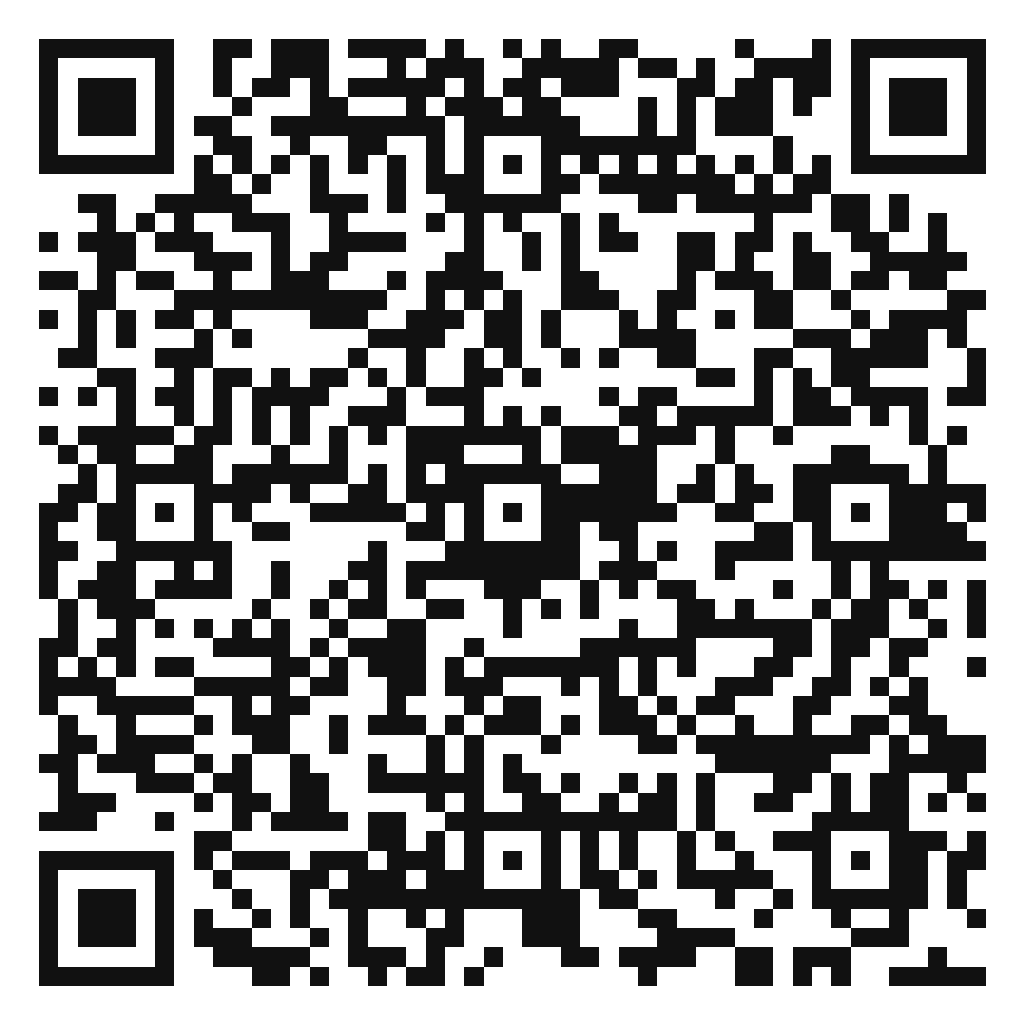
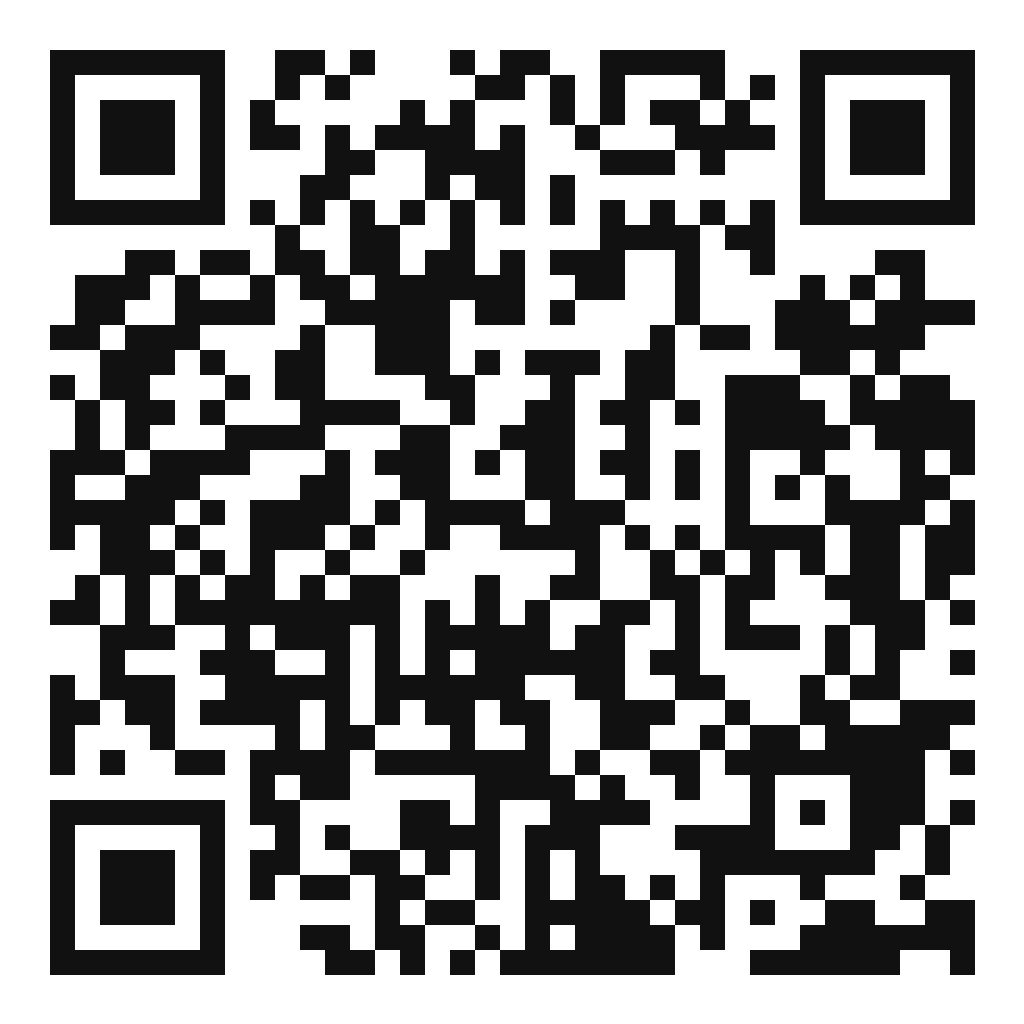
Point the QR code at roupadedomingo.com.br and drop the trophy toast from the secret page

diff --git a/src/pages/SecretQr.tsx b/src/pages/SecretQr.tsx
@@ -1,7 +1,5 @@
-import { useEffect } from "react";
 import { Link } from "react-router-dom";
 import styled from "styled-components";
-import { useEasterEggs } from "../contexts/EasterEggContext";
 import { Button, Container, Section } from "../components/ui";
 
 /**
@@ -47,15 +45,8 @@ const Wrapper = styled.div`
 `;
 
 export default function SecretQr() {
-  const { discover } = useEasterEggs();
-
-  // Escanear o QR conta como descoberta. O codigo precisa existir e estar
-  // ativo na tabela de easter eggs; se nao existir, o backend ignora e a
-  // pagina continua funcionando.
-  useEffect(() => {
-    void discover("QR_CODE_SEGREDO");
-  }, [discover]);
-
+  // Sem discover() de easter egg aqui: a notificacao de troféu competia com a
+  // piada da tela e entregava que havia mesmo "um segredo".
   return (
     <Section>
       <Container>

diff --git a/src/assets/brand/QRCodes/README.md b/src/assets/brand/QRCodes/README.md
@@ -13,7 +13,7 @@ e manda o visitante para o catálogo.
 URL codificada:
 
 ```
-https://frontend-roupa-de-domingo-production.up.railway.app/segredo
+https://roupadedomingo.com.br/segredo
 ```
 
 Gerado com correção de erro nível **H** (recupera ~30% do código), que tolera
@@ -40,4 +40,5 @@ tempo de execução, então não precisa dela no `package.json`.
 - Preserve a margem branca em volta (quiet zone). Sem ela, muitos leitores falham.
 - Não recorte, não aplique sobre foto e não inverta as cores.
 - A rota tem `noindex`: a piada só funciona se chegarem pelo QR, não pela busca.
+- A tela não dispara notificação de troféu: o aviso competia com a piada.
 - Teste com a câmera do celular depois de imprimir o primeiro lote.
